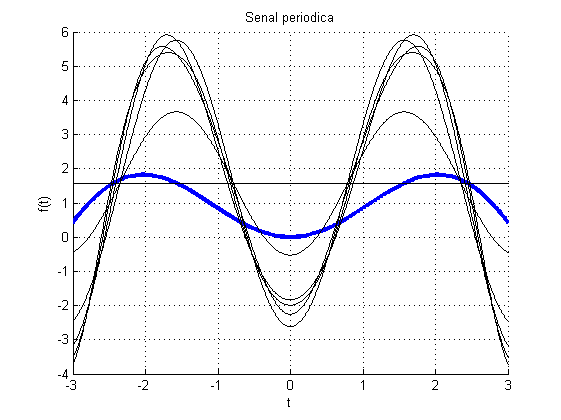
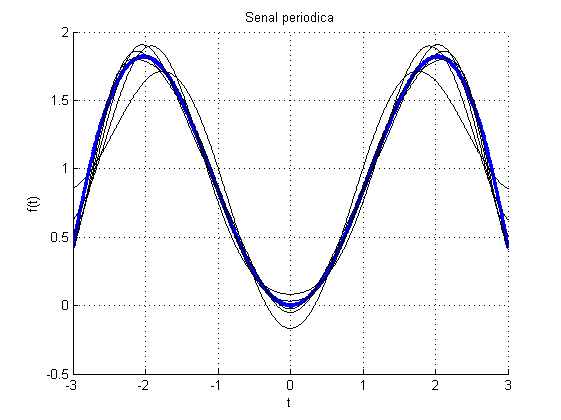
actualizado documento y scripts tarea 2

diff --git a/second/inform/main.tex b/second/inform/main.tex
@@ -6,7 +6,7 @@
 \usepackage[utf8]{inputenc}
 \usepackage{amsmath}
 
-\title{Primer trabajo teoría de la información y la comunicación}
+\title{Tarea 2}
 \author{Miguel~Angel~Asencio~Hurtado, Ana~María~Rodríguez~Reyes}
 
 \begin{document}
@@ -80,6 +80,67 @@ $\,$
 
 $$f(t) = t \, sin(t),\; -\pi \leq t \leq \pi$$
 
+
+\textbf{R/} Se plantea la serie de fourier de la siguiente manera:
+
+$$f(t) = \frac{a_0}{2} + \sum_{n=1}^\infty\left(a_n\,cos(n\omega_0t) + b_n\,sin(n\omega_0t)\right)$$
+
+Por lo que los coeficientes $a_x$ se pueden definir de la siguiente forma:
+\begin{eqnarray*}
+a_0 &=& \frac{2}{T}\int_{-T/2}^{T/2}f(t)dt\\
+a_n &=& \frac{2}{T}\int_{-T/2}^{T/2}f(t)cos(n\omega_0t)dt\\
+b_n &=& \frac{2}{T}\int_{-T/2}^{T/2}f(t)sin(n\omega_0t)dt
+\end{eqnarray*}
+
+Reemplazando por las variables del enunciado se llega a:
+\begin{eqnarray*}
+a_0 &=& \frac{1}{\pi}\int_{-\pi}^{\pi}tsin(t)dt\\
+a_n &=& \frac{1}{\pi}\int_{-\pi}^{\pi}tsin(t)cos(n\,t)dt\\
+b_n &=& \frac{1}{\pi}\int_{-\pi}^{\pi}tsin(t)sin(n\,t)dt
+\end{eqnarray*}
+
+Resolviendo para $a_0$:
+\begin{eqnarray*}
+a_0 &=& \frac{1}{\pi}\int_{-\pi}^{\pi}tsin(t)dt\\
+&=& \frac{1}{\pi} \bigg[ sin(t) -tcos(t)\bigg|_{t=-\pi}^{0} + sin(t) -tcos(t)\bigg|_{t=0}^{\pi} \bigg] \\
+&=& \frac{1}{\pi} [2\pi]\\
+&=& 2
+\end{eqnarray*}
+
+Resolviendo para $a_n$:
+\begin{eqnarray*}
+a_n &=& \frac{1}{\pi}\int_{-\pi}^{\pi}tsin(t)cos(n\,t)dt\\
+&=& \frac{1}{\pi} \bigg(\frac{1}{2}\bigg(-\frac{sin((n-1)t)}{(n-1)^{2}} + \frac{sin((n+1)t)}{(n+1)^{2}}+ \\ 
+& & \frac{tcos((n-1)t)}{n-1} - \frac{tcos((n+1)t)}{n+1})\bigg)\bigg)\bigg|_{t=-\pi}^{\pi}\\
+&=& \frac{4nsin(\pi n)-2\pi(n^{2}-1)cos(\pi n))}{\pi(n^{2}- 1)^{2}}\\
+\end{eqnarray*}
+
+Resolviendo para $b_n$:
+\begin{eqnarray*}
+b_n &=& \frac{1}{\pi}\int_{-\pi}^{\pi}tsin(t)sin(n\,t)dt\\
+&=& \frac{1}{\pi} \bigg[\frac{1}{(n^{2}-1)^{2}}(sin(t)((n^{2}+1)sin(nt) \\
+& & -n(n^{2}-1)xcos(nx))+ cos(t)((n^{2}-1)xsin(nx) + \\
+& &2ncos(nx)))\bigg]\bigg|_{t=-\pi}^{\pi}\\
+&=& 0
+\end{eqnarray*}
+
+De manera que la serie de Fourier de $f(t)$ queda de la siguiente forma:
+\begin{eqnarray*}
+f(t) &=& 1 + \sum_{n=1}^\infty\left(a_n\,cos(n\,t)\right)\\
+a_n &=& \frac{4nsin(\pi n)-2\pi(n^{2}-1)cos(\pi n))}{\pi(n^{2}- 1)^{2}}
+\end{eqnarray*}
+
+Esta progresión puede verse en la Figura~\ref{fig_1b}, en donde a medida que se agrega un término esta sumatoria se aproxima a la señal original (mostrada en azul).
+
+\begin{figure}[!t]
+\centering
+\includegraphics[width=3.5in]{imgs/tsint.png}
+\caption{Señal $f(t) = tsin(t)$}
+\label{fig_1b}
+\end{figure}
+
+
+
 \textbf{3. Desarrollar en series de Fourier}
 
 $$f(t) = t,\; -\pi \leq t \leq \pi$$
@@ -149,6 +210,69 @@ $$f(t) = \begin{cases}
 t, &0 \leq t \leq \pi
 \end{cases}$$
 
+\textbf{R/} Se plantea la serie de fourier de la siguiente manera:
+
+$$f(t) = \frac{a_0}{2} + \sum_{n=1}^\infty\left(a_n\,cos(n\omega_0t) + b_n\,sin(n\omega_0t)\right)$$
+
+Por lo que los coeficientes $a_x$ se pueden definir de la siguiente forma:
+\begin{eqnarray*}
+a_0 &=& \frac{2}{T}\int_{-T/2}^{T/2}f(t)dt\\
+a_n &=& \frac{2}{T}\int_{-T/2}^{T/2}f(t)cos(n\omega_0t)dt\\
+b_n &=& \frac{2}{T}\int_{-T/2}^{T/2}f(t)sin(n\omega_0t)dt
+\end{eqnarray*}
+
+Reemplazando por las variables del enunciado se llega a:
+\begin{eqnarray*}
+a_0 &=& \frac{1}{\pi} \bigg[ \int_{-\pi}^{0}(\pi + t) dt + \int_{0}^{\pi}t dt \bigg] \\
+a_n &=&\frac{1}{\pi} \bigg[ \int_{-\pi}^{0}(\pi + t)cos(n\,t) dt + \int_{0}^{\pi}tcos(n\,t) dt \bigg] \\
+b_n &=& \frac{1}{\pi} \bigg[ \int_{-\pi}^{0}(\pi + t)sin(n\,t) dt + \int_{0}^{\pi}tsin(n\,t) dt \bigg] 
+\end{eqnarray*}
+
+Resolviendo para $a_0$:
+\begin{eqnarray*}
+a_0 &=& \frac{1}{\pi} \bigg[ \int_{-\pi}^{0}(\pi + t) dt + \int_{0}^{\pi}t dt \bigg]\\
+&=& \frac{1}{\pi} \bigg[ \frac{t^{2}}{2} + \pi x\bigg|_{t=-\pi}^{0} + \frac{t^{2}}{2}\bigg|_{t=0}^{\pi} \bigg] \\
+&=& \frac{1}{\pi} [\frac{\pi^{2}}{2} + \frac{\pi^{2}}{2}]\\
+&=& \pi
+\end{eqnarray*}
+
+Resolviendo para $a_n$:
+\begin{eqnarray*}
+a_n &=& \frac{1}{\pi} \bigg[ \int_{-\pi}^{0}(\pi + t)cos(n\,t) dt + \int_{0}^{\pi}tcos(n\,t) dt \bigg] \\
+&=& \frac{1}{\pi} \bigg[ \bigg(\frac{cos(n t)}{n^{2}} + \frac{t sin(n t)}{n} + \frac{\pi sin(n t)}{n}\bigg)\bigg|_{t=-\pi}^{0}\\
+& & \bigg(\frac{cos(nt)}{n^{2}} + \frac{tsin(n t)}{n}\bigg)\bigg|_{t=0}^{\pi} \bigg] \\
+&=& \frac{1}{\pi} \bigg[ \frac{1 - cos(\pi n)}{n^{2}}+ \frac{\pi n sin(\pi n)+ cos(\pi n) -1}{n^{2}} \bigg]\\
+&=& \frac{sin(\pi n)}{n}
+\end{eqnarray*}
+
+Resolviendo para $b_n$:
+\begin{eqnarray*}
+b_n &=&  \frac{1}{\pi} \bigg[ \int_{-\pi}^{0}(\pi + t)sin(n\,t) dt + \int_{0}^{\pi}tsin(n\,t) dt \bigg] \\
+&=&  \frac{1}{\pi} \bigg[ \bigg(\frac{sin(n t)}{n^{2}} - \frac{tcos(n t)}{n} - \frac{\pi cos(n t)}{n}\bigg)\bigg|_{t=-\pi}^{0}\\
+& & \bigg(\frac{sin(n t)}{n^{2}} - \frac{tcos(n t)}{n}\bigg)\bigg|_{t=0}^{\pi} \bigg] \\
+&=& \frac{1}{\pi} \bigg[ \frac{sin(\pi n)-\pi n}{n^{2}} + \frac{sin(\pi n)-\pi n cos(\pi n)}{n^{2}} \bigg]\\
+&=& \frac{2sin(\pi n)-\pi n cos(\pi n) - \pi n}{n^{2}}
+\end{eqnarray*}
+
+De manera que la serie de Fourier de $f(t)$ queda de la siguiente forma:
+\begin{eqnarray*}
+f(t) &=& \frac{\pi}{2} + \sum_{n=1}^\infty\left(a_n\,cos(n\,t)+ b_n\,sin(n\omega_0t)\right)\\
+a_n &=&  \frac{sin(\pi n)}{n} \\
+b_n &=&   \frac{2sin(\pi n)-\pi n cos(\pi n) - \pi n}{n^{2}}
+\end{eqnarray*}
+
+Esta progresión puede verse en la Figura~\ref{fig_1d}, en donde a medida que se agrega un término esta sumatoria se aproxima a la señal original (mostrada en azul).
+
+\begin{figure}[!t]
+\centering
+\includegraphics[width=3.5in]{imgs/piece.png}
+\caption{Señal $f(t) = \begin{cases}
+\pi +t, &-\pi \leq t \leq 0\\
+t, &0 \leq t \leq \pi \end{cases}$}
+\label{fig_1d}
+\end{figure}
+
+
 \textbf{5. Hallar el periodo}
 
 \textbf{a)} $f(t) = sin(\frac{2\pi}{b-a}t)$
@@ -193,7 +317,7 @@ T_2 &=& \frac{2\pi}{3}\\
 T_3 &=& \frac{2\pi}{5}
 \end{eqnarray*}
 
-Dado el hecho de que la señal es una señal compuesta, será periodica si el cociente entre sus periodos es un número racional:
+Dado el hecho de que la señal es una señal compuesta, será periódica si el cociente entre sus periodos es un número racional:
 
 \begin{eqnarray*}
 \frac{T_1}{T_2} &=& 3\\
@@ -201,7 +325,7 @@ Dado el hecho de que la señal es una señal compuesta, será periodica si el co
 \frac{T_2}{T_3} &=& \frac{5}{3}
 \end{eqnarray*}
 
-Dado el hecho de que se cumple la condición, la señal es periódica y su periodo será en mínimo común múltiplo de estos periodos:
+Dado el hecho de que se cumple la condición, la señal es periódica y su periodo será el mínimo común múltiplo de estos periodos:
 
 \begin{eqnarray*}
 T &=& m.c.m(T_1,T_2,T_3)\\
@@ -221,4 +345,32 @@ Es evidente en la Figura \ref{fig_5b} que el periodo coincide con el calculado.
 $\,$
 
 \textbf{c)} $f(t) = cos(10t) + cos((10+\pi)t)$
+
+\textbf{R/} El periodo $T$ de la función coseno se puede definir como:
+
+$$f(t) = cos\left(\frac{2\pi}{T}t\right)$$
+
+Por lo que para cada coseno su periodo sería:
+
+\begin{eqnarray*}
+T_1 &=& \frac{\pi}{5}\\
+T_2 &=& \frac{2\pi}{10 + \pi}
+\end{eqnarray*}
+
+Dado el hecho de que la señal es una señal compuesta, será periódica si el cociente entre sus periodos es un número racional:
+
+\begin{eqnarray*}
+\frac{T_1}{T_2} &=& 1 + \frac{\pi}{10}
+\end{eqnarray*}
+
+Dado el hecho de que no se cumple la condición, la señal no es periódica, como se puede observar en la Figura \ref{fig_5c}
+
+\begin{figure}[!t]
+\centering
+\includegraphics[width=3.5in]{imgs/5c.png}
+\caption{Señal $f(t) = cos(10t) + cos((10+\pi)t)$}
+\label{fig_5c}
+\end{figure}
+
+
 \end{document}

diff --git a/second/p4.m b/second/p4.m
@@ -4,15 +4,19 @@ N = 1000;
 tmin = -3;
 tmax = 3;
 t = linspace(tmin, tmax, N);
-y = t.*sin(t);
-a = pi;
+
+y1=(pi+t).*(-pi<=t & t<=0);
+y2=(t).*(0<t & t<=pi);
+y=y1+y2;
+
+a = pi/2;
 
 figure
 hold on
 plot(t,y,'b-','LineWidth',3);
 
-for n = 2:6
-    a = a + ( (sin(pi/n)/n)*cos(n*t) + (2*sin(pi*n)-pi*n*cos(n*pi)-pi*n)/(n^2));
+for n = 1:10
+    a = a + ( ((sin(pi*n)/n)*cos(n*t)) + (2*sin(pi*n)-pi*n*cos(n*pi)-pi*n)/(n^2)*sin(n*t));
     plot(t,a,'k-');
 end
 

diff --git a/second/p2.m b/second/p2.m
@@ -5,14 +5,14 @@ tmin = -3;
 tmax = 3;
 t = linspace(tmin, tmax, N);
 y = t.*sin(t);
-a= pi/2;
+a= 1 -(cos(t))/2;
 
 figure
 hold on
 plot(t,y,'b-','LineWidth',3);
 for n = 2:6
+    a = a + ((4*n*sin(pi*n)-2*pi *((n^2)-1)* cos(pi *n))/((((n^2)-1)^2) *pi)) * cos(n*t);
     plot(t,a,'k-');
-    a = a + ((4* sin(pi*n)-2*pi *((n^2)-1)* cos(pi *n))/((n^2)-1)^2) * cos(n*t);
 end
 
 title('Senal periodica');

diff --git a/second/p5c.m b/second/p5c.m
@@ -1,0 +1,14 @@
+clear all; close all; clc;
+
+N = 1000;
+tmin = 0;
+tmax = 2*pi;
+t = linspace(tmin, tmax, N);
+y = cos(10*t) + cos((10 + pi)*t);
+
+figure
+plot(t,y);
+title('Senal no periodica');
+xlabel('t');
+ylabel('f(t)');
+grid on;
